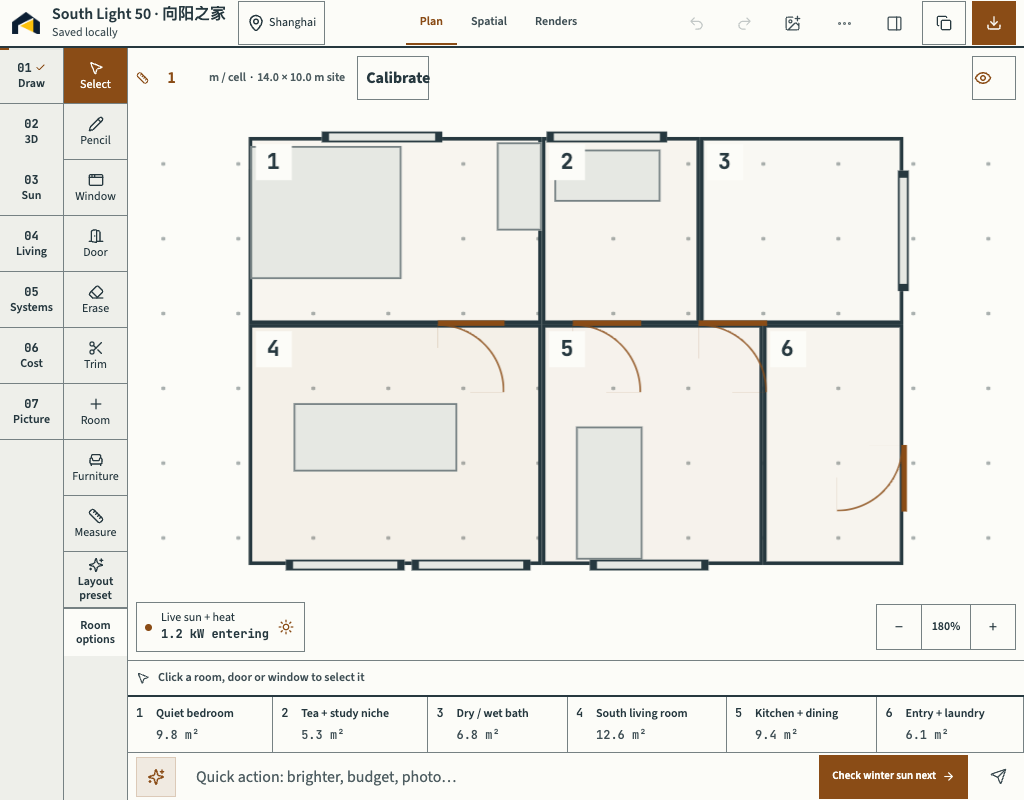
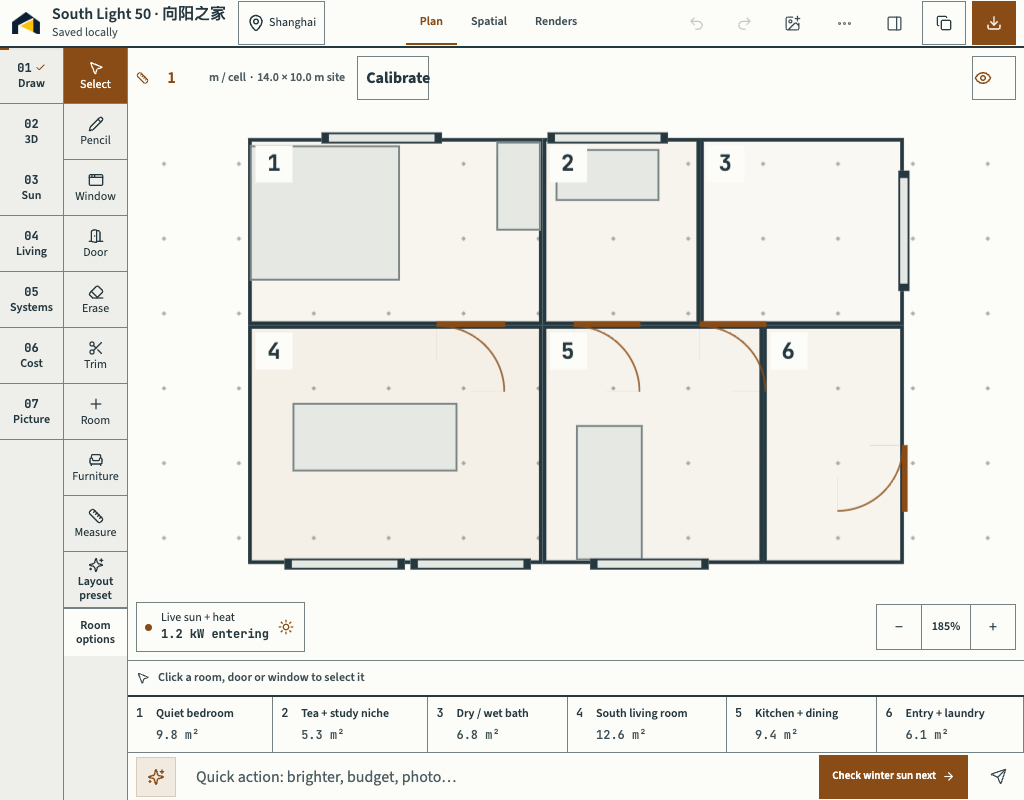
test: gate the field dimensions on the paper
The fix for shippability §10.1 had no gate, so nothing owned it. The plan
view's chrome gate now owns it: at 1440, 1024 and 390, with the whole sheet
in view, both field dimensions are inside the drawing area rather than
hanging in the frame's empty column, and no second scale label hangs off the
sheet.

scripts/dimension-fit.mjs measures the same thing outside the test, and
scripts/capture-evidence.mjs refreshes the rendered evidence for the three
views at the three widths.

diff --git a/e2e/msh-chrome.spec.ts b/e2e/msh-chrome.spec.ts
@@ -341,6 +341,54 @@ test.describe('the chrome of the plan view', () => {
     }
   })
 
+  test('the field dimensions sit on the paper, not outside it', async ({ page }) => {
+    // The field dimensions are the sheet's own annotations: they hang below
+    // the sheet's bottom edge and beside its right edge. At the building-fit
+    // zoom the sheet's edges are off-screen, so they are off-screen with them.
+    // When the whole sheet IS in view they must be inside the drawing area —
+    // not hanging in the frame's empty column beside it, which is what
+    // §10.1 of the shippability audit recorded.
+    for (const [width, height] of [[1440, 900], [1024, 800], [390, 844]] as const) {
+      await page.setViewportSize({ width, height })
+      await openStudio(page)
+      const zoomOut = page.getByRole('button', { name: 'Zoom out' })
+      for (let step = 0; step < 14 && !(await zoomOut.isDisabled()); step += 1) {
+        await zoomOut.click()
+        await page.waitForTimeout(220)
+      }
+      await page.waitForTimeout(400)
+      const boxes = await page.evaluate(() => {
+        const round = (n: number) => Math.round(n * 100) / 100
+        const viewport = document.querySelector('.plan-viewport')!.getBoundingClientRect()
+        const number = (selector: string) => {
+          const el = document.querySelector(`${selector} span`)
+          if (!el) return null
+          const rect = el.getBoundingClientRect()
+          return {
+            text: (el.textContent ?? '').trim(),
+            left: round(rect.left), right: round(rect.right), top: round(rect.top), bottom: round(rect.bottom),
+            inside: rect.left >= viewport.left - 0.5 && rect.right <= viewport.right + 0.5 && rect.top >= viewport.top - 0.5 && rect.bottom <= viewport.bottom + 0.5,
+          }
+        }
+        return {
+          viewport: { left: round(viewport.left), right: round(viewport.right), top: round(viewport.top), bottom: round(viewport.bottom) },
+          x: number('.dimension-x'),
+          y: number('.dimension-y'),
+          scaleChip: (document.querySelector('.scale-chip')?.textContent ?? '').replace(/\s+/g, ' ').trim(),
+          scaleLabels: document.querySelectorAll('.scale-label').length,
+        }
+      })
+      expect(boxes.x, `the width dimension is drawn at ${width}px`).not.toBeNull()
+      expect(boxes.y, `the depth dimension is drawn at ${width}px`).not.toBeNull()
+      expect(boxes.x!.inside, `the width dimension is inside the drawing at ${width}px`).toBe(true)
+      expect(boxes.y!.inside, `the depth dimension is inside the drawing at ${width}px`).toBe(true)
+      // The scale statement is on the sheet once, in the chip that is always
+      // on screen — the duplicate that hung below the drawing is gone.
+      expect(boxes.scaleChip, `the chip states the site scale at ${width}px`).toContain('m')
+      expect(boxes.scaleLabels, `no second scale label hangs off the sheet at ${width}px`).toBe(0)
+    }
+  })
+
   test('the room key is one row, and every figure belongs to its own room', async ({ page }) => {
     for (const [width, height] of [[1440, 900], [1024, 800], [390, 844]] as const) {
       await page.setViewportSize({ width, height })

diff --git a/docs/AUDIT-2026-11-06.md b/docs/AUDIT-2026-11-06.md
@@ -92,3 +92,26 @@ subsequent runs were sequential. Neither was a product clearance.
 The complete hosted CI and production checks, exact artifact deployment and
 live byte verification remain the release gates. The release receipt records
 their final outcome separately.
+
+## The last open spatial finding, closed
+
+Shippability §10.1 — the field-dimension annotations hanging outside the
+drawing — is now closed and gated. The sheet's own annotations (14,000 and
+10,000) hang below its bottom edge and beside its right edge; at the
+building-fit zoom the sheet's edges are off-screen, so they are off-screen
+with them, and at the full-sheet zoom they now land **inside** the drawing
+area rather than in the frame's empty column beside it. The repair was in the
+canvas fit, not the CSS: the sheet is fitted with a gutter wide enough to
+hold them, and the duplicate scale label — which hung 52px below the sheet
+saying what the always-on-scale chip already says — is gone.
+
+Measured, not asserted: the rendered sheet is the same size as before
+(1390.26px against 1390.2px at 1440×900, 552.64 against 553.06 at 390×844),
+because the fit re-zooms to the building, so the gutter costs the drawing
+nothing. The plan view's work area and its chrome budget are unchanged
+(642.61 / 486.02 / 423.41px of work).
+
+`e2e/msh-chrome.spec.ts` now owns it: *the field dimensions sit on the
+paper, not outside it* — at 1440, 1024 and 390, after zooming out to the
+whole sheet, both numbers are inside the drawing area and there is no second
+scale label hanging off it.
